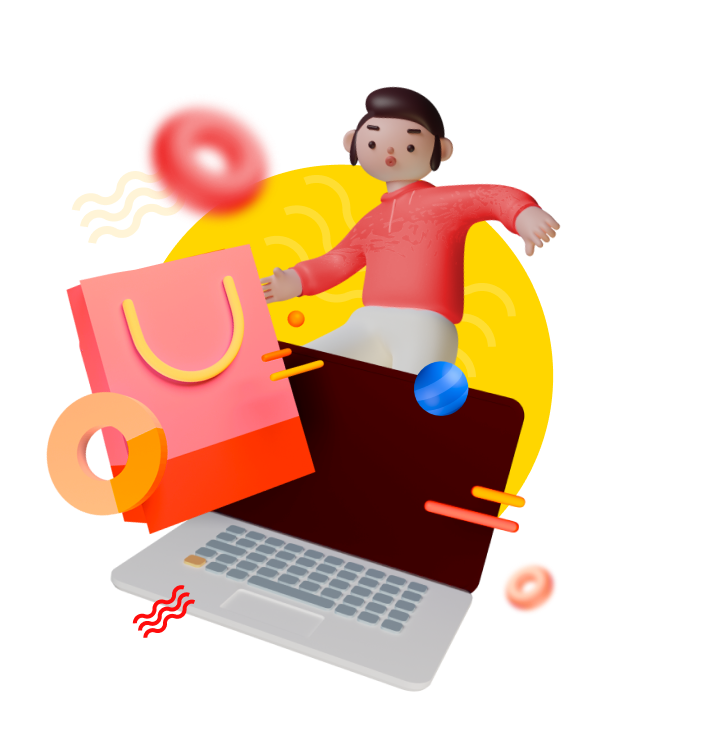
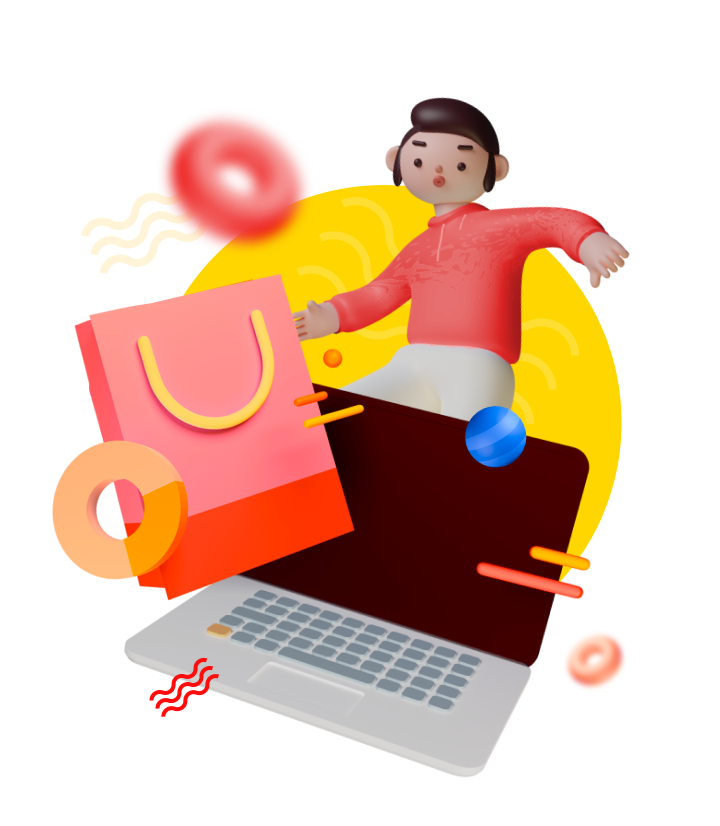
updated

Changed region(s): [[0.0611, 0.1197, 0.8861, 0.9578], [0.0917, 0.5388, 0.1222, 0.5687]]

diff --git a/index.html b/index.html
@@ -29,14 +29,14 @@
     <title>LOGIN REQUISTION APPLICATION</title>
   </head>
   <body>
-    <div class="row row-cols-2 text-center">
-      <div class="col-sm-8 mt-5">
+    <div class="d-flex flex-row text-center">
+      <div class="col-sm-7 mt-5">
         <img class="center" src="img/logo.png" alt="" />
         <h1>REQUISTION APPLICATION</h1>
         <h5>Sistem Permintaan Barang</h5>
 
         <!-- Form -->
-        <div class="form-group w-25 fc mt-5">
+        <div class="form-group width fc mt-5">
           <input
             type="email"
             class="form-control text-center"
@@ -45,48 +45,35 @@
             placeholder="Masukan NIK"
           />
         </div>
-        <div class="form-group w-25 fc">
+        <div class="form-group fc width">
           <input
             type="password"
             class="form-control text-center"
-            id="exampleInputPassword1"
+            id=""
             placeholder="Masukan PIN"
           />
         </div>
         <div class="text-center mt-4">
           <button class="btn btn-warning">Reset PIN</button>
-          <button class="btn btn-primary no-border">Login</button>
+          <a href="dashboard.html" class="btn btn-primary no-border">Login</a>
         </div>
       </div>
 
-      <!-- Kanan -->
-      <div class="col-sm-4 md">
+      <!-- Image Carousel -->
+      <div class="col-sm-5 md none">
         <div class="container-1">
-          <div
-            id="carouselExampleControls"
-            class="carousel slide"
-            data-ride="carousel"
-          >
+          <div id="carouselExampleFade" class="carousel slide carousel-fade" data-bs-ride="carousel">
             <div class="carousel-inner container-1">
               <div class="carousel-item active">
-                <img
-                  class="d-block float-right"
-                  src="/img/background_login2.png"
-                  alt="First slide"
-                />
+                <img src="img/background_login3.png" class="d-block w-100 image-slide img-fluid" alt="...">
               </div>
               <div class="carousel-item">
-                <img
-                  class="d-block float-right"
-                  src="/img/background_login3.png"
-                  alt="Second slide"
-                />
+                <img src="img/background_login2.png" class="d-block w-100 image-slide" alt="...">
               </div>
               <div class="carousel-item">
-                <img class="d-block float-right" src="/img/background_login1.png" alt="Third slide" />
+                <img src="img/background_login1.png" class="d-block w-100 image-slide" alt="...">
               </div>
             </div>
-          </div>
         </div>
       </div>
     </div>

diff --git a/dashboard.html b/dashboard.html
@@ -29,9 +29,10 @@
           <img class="img-fluid" src="img/logo.png" alt="logo" />
         </div>
         <div class="col-sm">
-          <span class="logout"
-            >Logout <i class="fa-solid fa-arrow-right-from-bracket"></i
-          ></span>
+          <a href="index.html" class="black">
+            <span class="logout"
+              >Logout <i class="fa-solid fa-arrow-right-from-bracket"></i></span
+          ></a>
         </div>
       </div>
       <h1>REQUISTION APPLICATION</h1>

diff --git a/css/login.css b/css/login.css
@@ -42,9 +42,18 @@ h5 {
   width: 114px;
 }
 
+.width {
+  width: 230px;
+}
+
+.image-slide {
+  height: 1006.5px;
+  width: 500px;
+}
+
 .container-1 {
   width: 100%;
-  height: 900px;
+  height: 1006.5px;
   background-color: #fff;
   border-radius: 100px 0px 0px 100px;
 }
